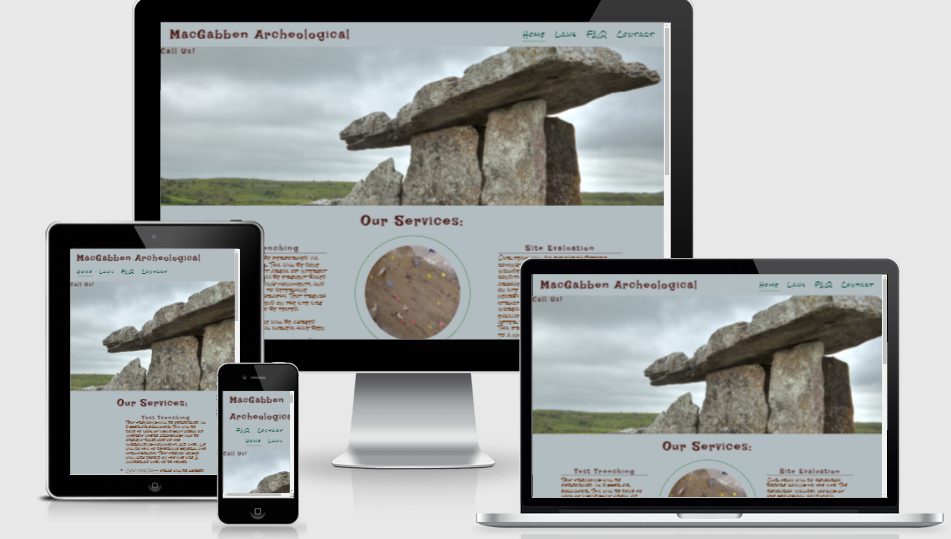
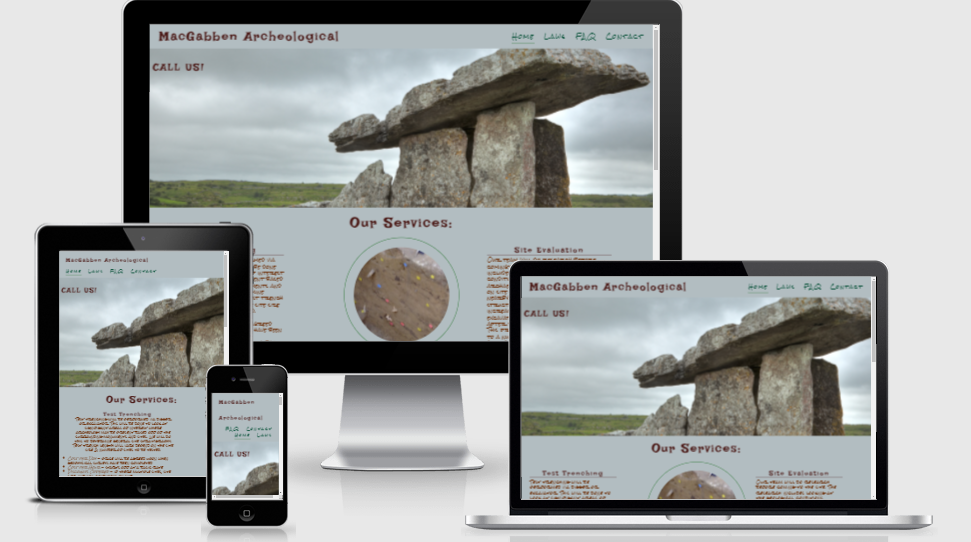
Edit code for devices below 950px

Changed region(s): [[0.0305, 0.0, 1.0, 1.0]]

diff --git a/assets/css/index.css b/assets/css/index.css
@@ -5,6 +5,7 @@
     padding: 0;
     border: none;
 }
+
 body {
     font-family: "Rock Salt", cursive;
     font-weight: 300;
@@ -14,9 +15,10 @@ body {
 
 /* headings & logo */
 
-h1, h2 {
+h1,
+h2 {
     font-family: "Irish Grover", cursive;
-    color:#4a1815;
+    color: #4a1815;
     letter-spacing: 4px;
 
 }
@@ -34,7 +36,8 @@ h1, h2 {
     letter-spacing: 4px;
 }
 
-#menu, #logo {
+#menu,
+#logo {
     line-height: 75px;
 }
 
@@ -43,9 +46,10 @@ h1, h2 {
     list-style-type: none;
     margin-right: 30px;
 }
+
 #menu a {
     text-decoration: none;
-    color:#004c32;
+    color: #004c32;
 }
 
 #menu a:hover {
@@ -53,7 +57,7 @@ h1, h2 {
 }
 
 .active {
-    border-bottom: 1px solid  #166b1c;
+    border-bottom: 1px solid #166b1c;
 }
 
 /* hero-image */
@@ -63,20 +67,34 @@ h1, h2 {
     width: 100%;
     background: url(../images/hero-image.jpg) no-repeat center center;
 }
+
 #hero-outer {
     height: 500px;
     width: 100%;
     overflow: hidden;
 }
 
-#cover-text, #cover-text h2 {
+#cover-text,
+#cover-text h2 {
     color: #4a1815;
+}
+
+#cover-text {
+    font-size: 130%;
+    font-family: "Irish Grover";
+    text-transform: uppercase;
+    letter-spacing: 4px;
+    width: 300px;
+    height: 200px;
+    padding-top: 40px;
+    padding-left: 10px;
 }
 
 /* trenching-evaluation */
 
 #left-about {
     padding-top: 30px;
+    padding-left: 30px;
     width: 33%;
     float: left;
 }
@@ -100,7 +118,6 @@ hr {
 
 .left-about-heading {
     width: 75%;
-    float: right;
     line-height: 20px;
     clear: both;
     margin-bottom: 50px;
@@ -148,19 +165,20 @@ hr {
 }
 
 #circle-cover-bg {
-    background:url('../images/test-trenching3.jpeg') no-repeat center center;
-    height:100%;
+    background: url('../images/test-trenching3.jpeg') no-repeat center center;
+    height: 100%;
     border-radius: 50%;
 }
 
 /* survey-digital */
 #survey-digital {
     margin-top: 150px;
-    margin-bottom: 150px;
+    margin-bottom: 250px;
 }
 
 #left-bottom-about {
     padding-top: 30px;
+    padding-left: 30px;
     width: 33%;
     float: left;
     clear: both;
@@ -185,9 +203,7 @@ hr {
 
 .left-bottom-about-heading {
     width: 75%;
-    float: right;
     line-height: 20px;
-    
     margin-bottom: 50px;
 }
 
@@ -227,8 +243,8 @@ hr {
 }
 
 #circle-bottom-cover-bg {
-    background:url('../images/digital-image3.jpg') no-repeat center center;
-    height:100%;
+    background: url('../images/digital-image3.jpg') no-repeat center center;
+    height: 100%;
     border-radius: 50%;
 }
 
@@ -242,7 +258,7 @@ footer {
     text-align: center;
 }
 
-.social-networks > li {
+.social-networks>li {
     display: inline;
 }
 
@@ -254,7 +270,7 @@ footer {
     padding: 5%;
 }
 
-footer > p {
+footer>p {
     font-size: 100%;
     text-align: center;
 }
@@ -265,7 +281,7 @@ footer > p {
     margin: 10px 15px;
     padding: 1%;
     text-align: center;
-    
+
 }
 
 #faq {
@@ -290,6 +306,7 @@ footer > p {
     width: 50%;
     float: left;
 }
+
 .law-links {
     text-align: center;
 }
@@ -298,7 +315,7 @@ footer > p {
     padding-top: 30px;
     padding-bottom: 200px;
     width: 50%;
-    margin: 0 auto; 
+    margin: 0 auto;
     float: left;
 }
 
@@ -310,7 +327,7 @@ footer > p {
 }
 
 #picture-cover {
-    background:url('../images/planning-board.jpg') no-repeat center center;
+    background: url('../images/planning-board.jpg') no-repeat center center;
     height: 100%;
 }
 
@@ -350,7 +367,7 @@ footer > p {
 }
 
 .text-input:hover {
-    border-color:#f16c6b;
+    border-color: #f16c6b;
 }
 
 .join-button {
@@ -381,62 +398,111 @@ footer > p {
         margin-bottom: 20px;
         line-height: 50px;
     }
-    
+
 
     #trenching-evaluation {
         width: 65%;
         margin: 0 auto;
     }
+
     #services {
         padding: 30px 0;
         margin: 0;
     }
-    #left-about, #right-about {
-        width:100%;
+
+    #left-about,
+    #right-about {
+        width: 100%;
         float: left;
         padding: 0;
     }
+
     #center-about {
         clear: both;
         width: 100%;
         float: left;
         padding: 0;
     }
+
     #survey-digital {
-        
+
         width: 65%;
         margin: 0 auto;
     }
-    #left-bottom-about, #right-bottom-about {
-        width:100%;
+
+    #left-bottom-about,
+    #right-bottom-about {
+        width: 100%;
         float: left;
         padding: 0;
     }
+
     #center-bottom-about {
         clear: both;
         width: 100%;
         padding: 0;
     }
+
     hr {
         display: none;
     }
+
     #left-links {
-        width:100%;
+        width: 100%;
         float: left;
         padding: 0;
     }
+
     #right-picture {
-        width:100%;
+        width: 100%;
         float: left;
         padding: 0;
     }
+
     #circle-container {
         width: 200px;
         height: 200px;
     }
+
     #circle-bottom-container {
         width: 200px;
         height: 200px;
     }
 }
 
+/* For larger to medium screens size from 950px wide and down */
+@media screen and (max-width: 950px) {
+    #menu {
+        clear: left;
+        float: left;
+        margin-left: 30px;
+        margin-bottom: 20px;
+        line-height: 25px;
+    }
+
+    #cover-text {
+        left: 0px;
+    }
+
+    #trenching-evaluation {
+        width: 90%;
+        margin: 0 auto;
+    }
+
+    .left-about-heading .right-about-heading {
+        width: inherit;
+    }
+
+    .left-about-heading h2,
+    .right-about-heading h2 {
+        width: 100%;
+        text-align: center;
+        padding: 0 20px 0 20px;
+    }
+
+    .left-about-heading p,
+    .right-about-heading p {
+        text-align: center;
+        padding: 0 20px 0 20px;
+    }
+}
